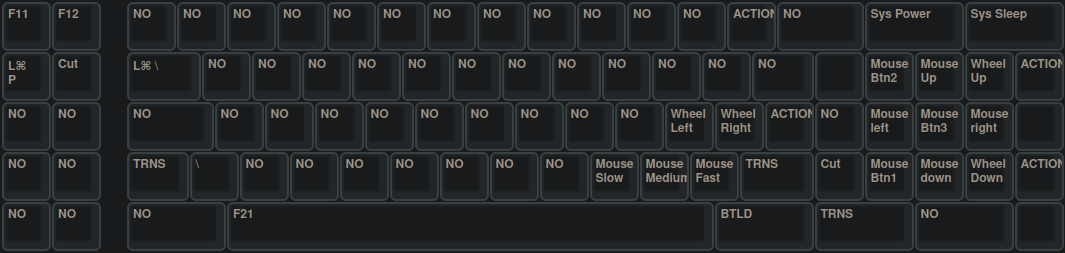
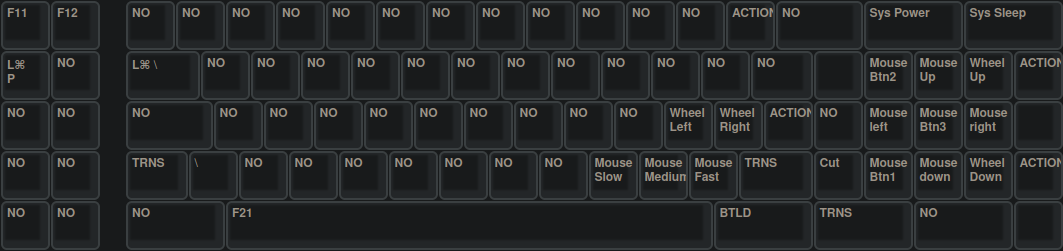
2nd cut key removed

diff --git a/unimap_xt.c b/unimap_xt.c
@@ -2,7 +2,7 @@
  * path:   /home/klassiker/.local/share/repos/zenith-xt-usb/unimap_xt.c
  * author: klassiker [mrdotx]
  * github: https://github.com/mrdotx/zenith-usb
- * date:   2021-12-21T15:11:32+0100
+ * date:   2021-12-21T18:36:13+0100
  */
 
 #include "unimap_trans.h"
@@ -45,8 +45,8 @@ const action_t actionmaps[][UNIMAP_ROWS][UNIMAP_COLS] PROGMEM = {
     /* [2] functions, macros and mouse with tap key INS(LTK1) or 0(LTK2) */
     UNIMAP(
               NO,  NO,  NO,  NO,  NO,  NO,  NO,  NO,  NO,  NO,  NO,  NO,
-    NO,       F11, F12, MON, CUT, NO,  NO,  NO,  NO,  NO,  NO,  NO,  NO,            NO,  SLEP,NO,           NO,  NO,  NO,
-    BOOT,NO,  NO,  NO,  NO,  NO,  NO,  NO,  NO,  NO,  NO,  NO,  FONT,NO,  NO,       NO,  NO,  NO,      PWR, NO,  CUT ,BRTD,
+    NO,       F11, F12, MON, NO,  NO,  NO,  NO,  NO,  NO,  NO,  NO,  NO,            NO,  SLEP,NO,           NO,  NO,  NO,
+    BOOT,NO,  NO,  NO,  NO,  NO,  NO,  NO,  NO,  NO,  NO,  NO,  FONT,NO,  NO,       NO,  NO,  NO,      PWR, NO,  CUT, BRTD,
     GUBS,NO,  NO,  NO,  NO,  NO,  NO,  NO,  NO,  NO,  NO,  NO,  NO,       BSLS,     NO,  NO,  NO,      BTN2,MS_U,WH_U,BRTI,
     BTLD,NO,  NO,  NO,  NO,  NO,  NO,  NO,  NO,  NO,  WH_L,WH_R,     NO,  NO,                          MS_L,BTN3,MS_R,NO,
     TRNS,NO,  NO,  NO,  NO,  NO,  NO,  NO,  NO,  ACL0,ACL1,ACL2,     NO,  TRNS,          NO,           BTN1,MS_D,WH_D,NO,
